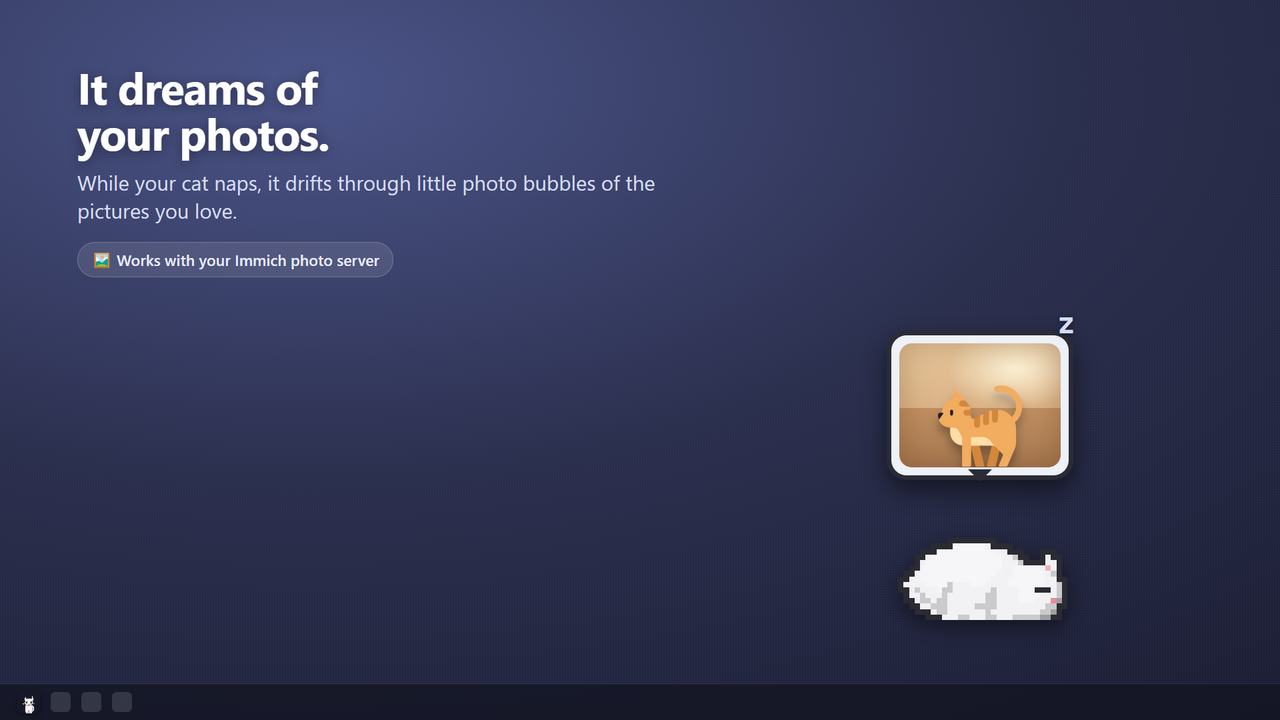
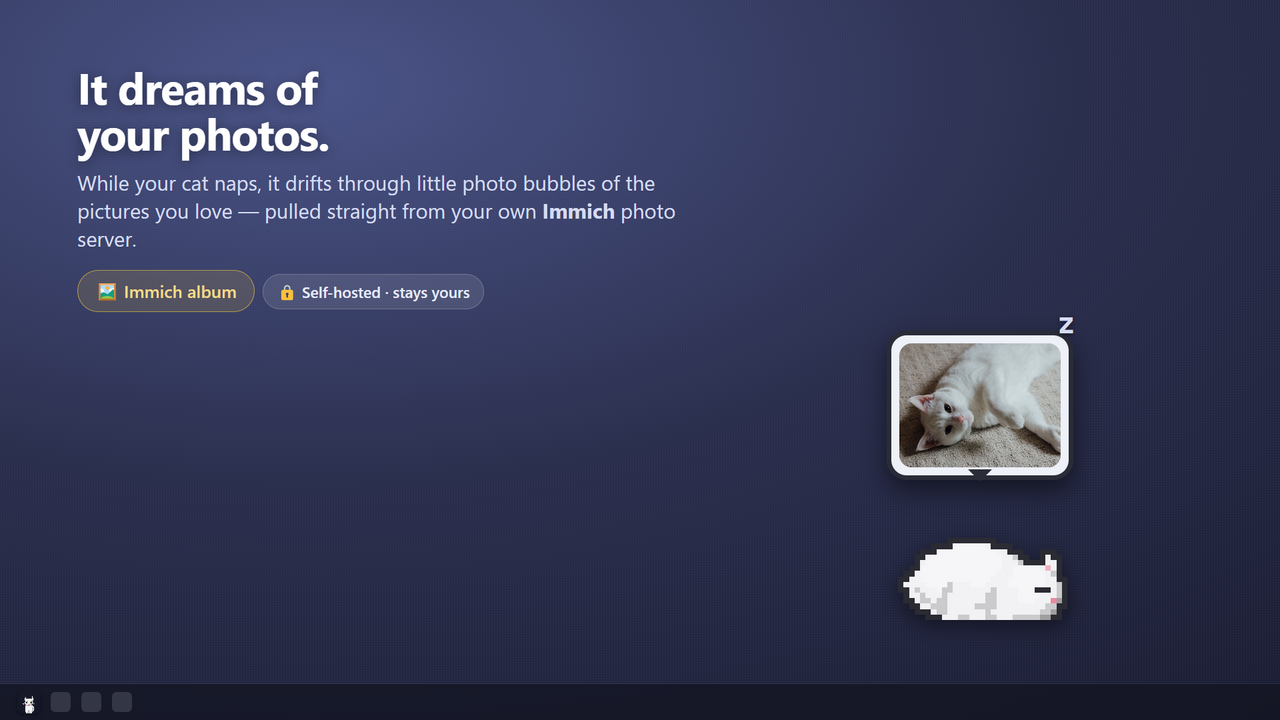
Dream screenshot: use Ash's real photo, and foreground Immich
Two things about the Dream Mode scene. It was falling back to the illustrated
emoji placeholder, which undersells a feature whose whole point is real
photographs -- default to Ash's photo instead. It is already embedded in the app
for the About dedication, so it ships with the repo and the scene stays
reproducible for anyone who clones it. --photo <path> still overrides.

Immich was also buried: one muted chip and no mention in the copy. Name it in
the scene subtitle, give the chip the app's accent so it reads as a feature
rather than a footnote, and pair it with a self-hosted chip. In the README,
promote it out of a sub-clause -- the intro now mentions it, the Dream Mode
bullet leads with it, and a new "Dream Mode & Immich" section documents the
actual setup (server URL, album id -- paste a whole album URL and it extracts
the UUID -- and an API key held in the OS keychain), plus the 30-minute album
refresh.

Changed region(s): [[0.6875, 0.4583, 0.8438, 0.6722], [0.0625, 0.3056, 0.375, 0.4583], [0.1875, 0.275, 0.5312, 0.3056]]

diff --git a/README.md b/README.md
@@ -2,8 +2,9 @@
 
 A customizable pixel-art desktop pet for **Windows and macOS**. A little cat — or a dog, or a
 rabbit, or whatever you build — lives on your desktop. It sits on top of your windows, wanders
-around on its own, naps, dreams, and reacts when you hover, click, or drag it. Everything lives
-in the system tray.
+around on its own, naps, and reacts when you hover, click, or drag it. When it sleeps, it
+dreams about your own photos, straight from your [Immich](https://immich.app/) server.
+Everything lives in the system tray.
 
 ![Your desktop just got a cat.](docs/screenshots/screenshot-1-hero.png)
 
@@ -57,9 +58,10 @@ show/hide, and updates.
 - **Care Mode (optional).** Hunger, energy, fun, and hygiene decay over time and feed into
   overall health; feed, play, rest, groom, and medicate from the tray. Three difficulties —
   relaxed, normal, demanding. Off by default: you can just let your pet be.
-- **Dream Mode.** While your pet naps, it drifts through little photo bubbles of pictures you
-  love — the photos you created it from, and/or an [Immich](https://immich.app/) album.
-  Double-click a bubble to open the photo full-size.
+- **Dream Mode, with [Immich](https://immich.app/) built in.** While your pet naps, it drifts
+  through little photo bubbles of the pictures you love — pulled live from an album on your own
+  self-hosted Immich server, and/or the photos you created the pet from. Double-click a bubble
+  to open the photo full-size. **[Setup ↓](#dream-mode--immich)**
 - **Make it yours** — seven sizes (XXS to XXL), a Detail control (Chunky · Normal · Fine) that
   re-renders the same pet at a different pixel resolution, turn speed, per-pet personality
   sliders, per-animation toggles, and renaming.
@@ -71,8 +73,27 @@ show/hide, and updates.
 |  |  |
 | --- | --- |
 | ![Pick your cat](docs/screenshots/screenshot-2-roster.png)<br>**Pick your cat** — tabbies, tuxedos, calicos, Siamese and more. | ![It lives its own little life](docs/screenshots/screenshot-3-life.png)<br>**It lives its own little life** — sit, walk, loaf, sleep, groom, prance. |
-| ![Care for it](docs/screenshots/screenshot-4-care.png)<br>**Care for it (if you want to)** — optional Care Mode. | ![It dreams of your photos](docs/screenshots/screenshot-6-dream.png)<br>**It dreams of your photos** — photo bubbles while it naps. |
+| ![Care for it](docs/screenshots/screenshot-4-care.png)<br>**Care for it (if you want to)** — optional Care Mode. | ![It dreams of your photos](docs/screenshots/screenshot-6-dream.png)<br>**It dreams of your photos** — straight from your Immich album. |
 | ![Make it yours](docs/screenshots/screenshot-5-settings.png)<br>**Make it yours** — the real settings window: pets, size, personality, animations. | |
+
+## Dream Mode & Immich
+
+PixelPet integrates with [**Immich**](https://immich.app/), the self-hosted photo server, so
+your pet dreams about your actual photo library instead of stock art. Your app talks to *your*
+server directly — there's no PixelPet cloud in the middle, and the API key never leaves the
+machine.
+
+Turn it on in **Settings → Dreams**:
+
+| Field | What to enter |
+| --- | --- |
+| **Server URL** | Your Immich base URL, e.g. `https://immich.example.com` |
+| **Album id** | The album's UUID — or just paste the whole album URL and PixelPet pulls the id out of it |
+| **API key** | From Immich → *Account Settings → API Keys*. Stored encrypted through the OS keychain, never in `settings.json` |
+
+Hit **Test** to confirm the connection. PixelPet re-reads the album every 30 minutes, and each
+dream bubble shows the next photo; double-clicking one opens it full-size. You can also set how
+often your pet dreams and how big the bubble is.
 
 ## Roadmap
 
@@ -116,6 +137,9 @@ Run `npm run build` first, since the settings window is captured from `out/`:
 npm run shots:readme   # 1280x720 -> docs/screenshots/ (committed, shown above)
 npm run shots:store    # 1920x1080 -> store-assets/ (git-ignored, for Partner Center)
 ```
+
+The dream-bubble scene shows Ash's photo by default (the one embedded for the About
+dedication). Pass `--photo <path>` to swap in a different one.
 
 ### Project layout
 
